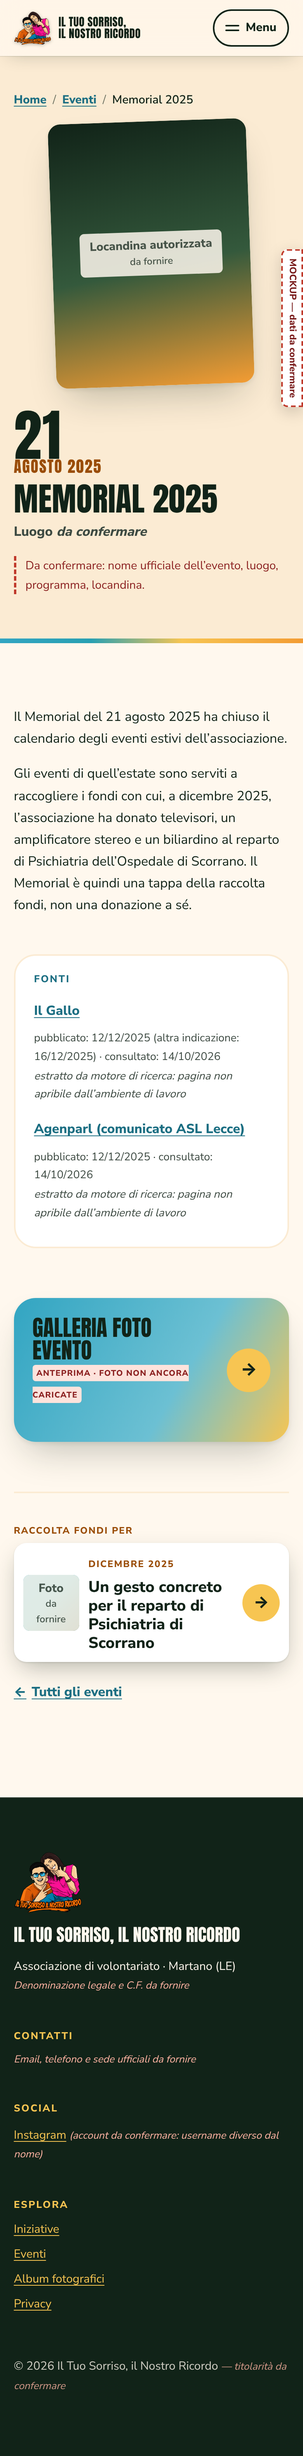
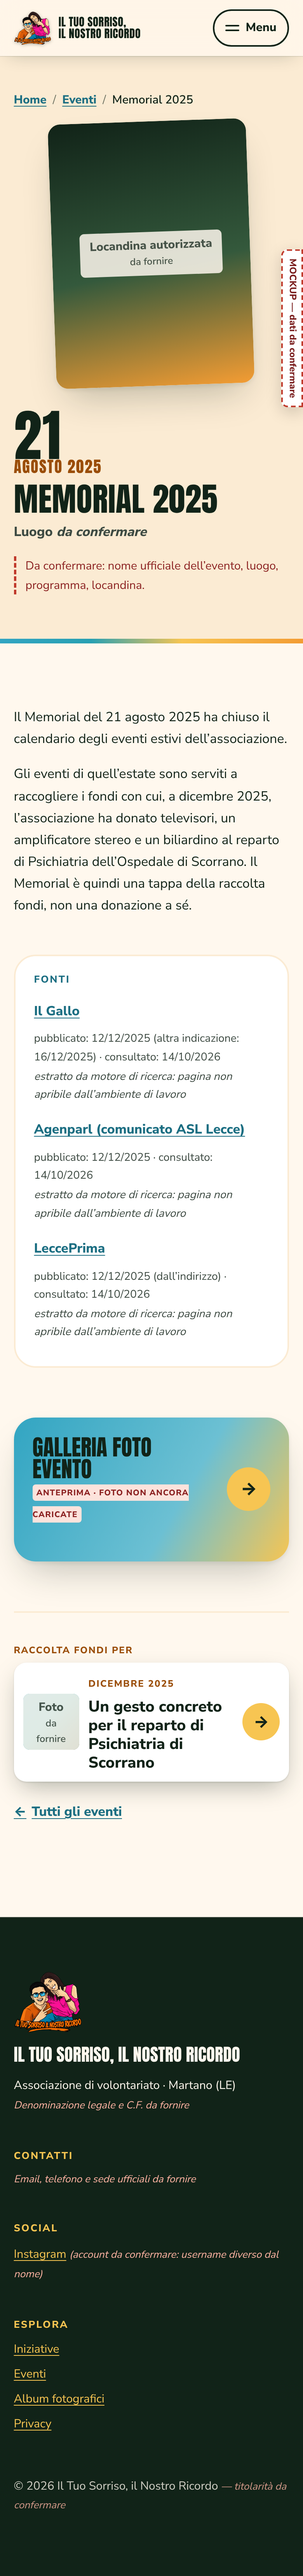
Correzione contenuti: catalogo foto solo reale, inventario e verifiche
- foto.html pubblico mostra solo l'album dell'evento reale; album fittizi
  solo in revisione (foto.html?demo=1)
- Archivio beneficenza: nota sull'unica iniziativa documentata
- LeccePrima aggiunta come fonte (estratto), nessun nuovo contenuto inventato
- docs/INVENTARIO_CONTENUTI.md: inventario, tabella integrati/non integrati,
  blocchi di accesso e materiali da richiedere
- Test E2E: catalogo, immagini, prestazioni essenziali (185/185)

Claude-Session: https://claude.ai/code/session_01UHhgy8jVRHrP4xmnhFFy4M

diff --git a/design/tests/e2e.js b/design/tests/e2e.js
@@ -66,7 +66,20 @@ async function suite(engine, b, vpName, opts) {
   ok(`[${vp}] home: nessun importo €`, !(await p.evaluate(() => /€|3\.000|euro/i.test(document.body.innerText))));
   ok(`[${vp}] home: 1 iniziativa, frecce e puntini nascosti`, await p.evaluate(() => document.querySelectorAll('#charity-track .ccard').length === 1 && getComputedStyle(document.querySelector('.carousel-ctrl')).display === 'none'));
   ok(`[${vp}] home: nessuna bozza`, !(await p.evaluate(() => /Torneo di calcio/.test(document.body.innerText))));
+  ok(`[${vp}] immagini: tutte caricate`, await p.evaluate(() => [...document.images].every(i => i.complete && i.naturalWidth > 0)));
   await shot('home-full', true);
+  if (engine === 'chromium' && vpName === 'desktop') {
+    const perf = await p.evaluate(() => {
+      const nav = performance.getEntriesByType('navigation')[0];
+      const res = performance.getEntriesByType('resource');
+      const local = res.filter(r => r.name.startsWith(location.origin));
+      return { dcl: Math.round(nav.domContentLoadedEventEnd), bytes: local.reduce((t, r) => t + (r.transferSize || r.encodedBodySize || 0), 0), requests: local.length,
+        cls: performance.getEntriesByType('layout-shift')?.reduce?.((t, e) => t + (e.hadRecentInput ? 0 : e.value), 0) ?? 0 };
+    });
+    ok(`[${vp}] prestazioni: DOMContentLoaded < 1500 ms in locale`, perf.dcl < 1500, JSON.stringify(perf));
+    ok(`[${vp}] prestazioni: risorse locali della Home < 1,5 MB`, perf.bytes < 1.5e6, JSON.stringify(perf));
+    results.push(`INFO  prestazioni Home (desktop, server locale): ${JSON.stringify(perf)}`);
+  }
 
   // 2. Home → beneficenza → articolo → archivio → Home
   await p.click('#charity-track .btn'); await p.waitForLoadState();
@@ -78,6 +91,7 @@ async function suite(engine, b, vpName, opts) {
   await shot('beneficenza-articolo', true); await noOverflow('articolo');
   await p.click('.crumbs a[href="beneficenza.html"]'); await p.waitForLoadState();
   ok(`[${vp}] archivio beneficenza`, p.url().endsWith('beneficenza.html') && (await p.$$('.ccard')).length === 1);
+  ok(`[${vp}] archivio: spiegata l'unica iniziativa documentata`, /una sola iniziativa/.test(await p.textContent('main')));
   await shot('beneficenza', true); await noOverflow('archivio beneficenza');
   await p.goBack(); ok(`[${vp}] tasto indietro`, /beneficenza-articolo/.test(p.url()));
   await p.goto(B + 'beneficenza.html');
@@ -110,8 +124,11 @@ async function suite(engine, b, vpName, opts) {
 
   // 4. Home → foto → catalogo → album → lightbox → selezione
   await p.goto(B + 'index.html'); await p.click('.stack'); await p.waitForLoadState();
-  ok(`[${vp}] home → catalogo foto`, p.url().endsWith('foto.html') && (await p.$$('.acard')).length === 3);
+  ok(`[${vp}] home → catalogo foto: solo l'album dell'evento reale`, p.url().endsWith('foto.html') && (await p.$$('#albums .acard')).length === 1 && /Memorial 2025/.test(await p.textContent('#albums')));
+  ok(`[${vp}] catalogo: nessun album fittizio nel pubblico`, !(await p.evaluate(() => /fittizio/i.test(document.querySelector('#albums').innerText))));
   await shot('foto-catalogo', true); await noOverflow('catalogo');
+  await p.click('.review-link a'); await p.waitForLoadState();
+  ok(`[${vp}] catalogo in revisione: album fittizi separati ed etichettati`, /foto\.html\?demo=1/.test(p.url()) && (await p.$$('.group--draft .acard')).length === 2);
   await p.click('.acard a[href="album.html?slug=demo-album-grande"]'); await p.waitForLoadState();
   ok(`[${vp}] album dimostrativo: etichettato e 48 foto caricate`, /fittizio/i.test(await p.textContent('.page-head')) && (await p.$$('.tile')).length === 48);
   await p.click('#load-more'); ok(`[${vp}] album: "Carica altre"`, (await p.$$('.tile')).length === 96);
@@ -163,7 +180,7 @@ async function suite(engine, b, vpName, opts) {
   ok('[reduced-motion] nessuna intro, nessun blocco', await p.evaluate(() => document.querySelector('.hero').classList.contains('is-done') && !document.documentElement.classList.contains('intro-lock')));
 
   // Link morti su tutte le pagine
-  const pages = ['index.html', 'index.html?demo=carosello', 'beneficenza.html', 'beneficenza-articolo.html?slug=donazione-spdc-scorrano-2025', 'eventi.html', 'eventi.html?bozze=1', 'evento.html?slug=memorial-2025', 'evento.html?slug=torneo-calcio-6-simone-2024', 'foto.html', 'album.html?slug=memorial-2025', 'album.html?slug=demo-album-grande', 'privacy.html'];
+  const pages = ['index.html', 'index.html?demo=carosello', 'beneficenza.html', 'beneficenza-articolo.html?slug=donazione-spdc-scorrano-2025', 'eventi.html', 'eventi.html?bozze=1', 'evento.html?slug=memorial-2025', 'evento.html?slug=torneo-calcio-6-simone-2024', 'foto.html', 'album.html?slug=memorial-2025', 'album.html?slug=demo-album-grande', 'foto.html?demo=1', 'privacy.html'];
   const dead = [];
   for (const pg of pages) {
     await p.goto(B + pg);

diff --git a/design/mockup/data.js b/design/mockup/data.js
@@ -4,7 +4,7 @@
    Ogni fonte ha data di consultazione e stato di verifica.
    Inventario completo: docs/RICERCA_FONTI_EVENTI_BENEFICENZA.md */
 (() => {
-  const CHECKED = '14/10/2026';
+  const CHECKED = '14/10/2026'; // ultima verifica: stessa data, secondo passaggio di ricerca
   // Stato di verifica delle fonti (vedi legenda nel documento di ricerca)
   const EXCERPT = 'estratto da motore di ricerca: pagina non apribile dall’ambiente di lavoro';
   const BLOCKED = 'non accessibile dall’ambiente di lavoro';
@@ -15,7 +15,7 @@
     cs2: { name: 'Corriere Salentino', date: '14/12/2025', url: 'https://www.corrieresalentino.it/2025/12/allospedale-veris-delli-ponti-di-scorrano-la-cerimonia-di-donazione-dellassociazione-il-tuo-sorriso-il-nostro-ricordo/', checked: CHECKED, status: EXCERPT },
     agenparl: { name: 'Agenparl (comunicato ASL Lecce)', date: '12/12/2025', url: 'https://agenparl.eu/2025/12/12/asl-lecce-donazione-al-reparto-di-psichiatria-dellospedale-di-scorrano-da-parte-dellassociazione-il-tuo-sorriso-il-nostro-ricordo/', checked: CHECKED, status: EXCERPT },
     gdp: { name: 'Giornale di Puglia', date: 'dicembre 2025', url: 'https://www.giornaledipuglia.com/2025/12/allospedale-veris-delli-ponti-di.html', checked: CHECKED, status: EXCERPT },
-    lecceprima: { name: 'LeccePrima', date: '12/12/2025 (dall’indirizzo)', url: 'https://www.lecceprima.it/salute/donazione-reparto-scorrano-12-dicembre-2025.html', checked: CHECKED, status: BLOCKED },
+    lecceprima: { name: 'LeccePrima', date: '12/12/2025 (dall’indirizzo)', url: 'https://www.lecceprima.it/salute/donazione-reparto-scorrano-12-dicembre-2025.html', checked: CHECKED, status: EXCERPT },
     grecia: { name: 'Grecìa ta nea-ma', date: '11/06/2024', url: 'https://greciataneama.it/news/notizie/sport/il-tuo-sorriso-il-nostro-ricordo-a-martano-to/40', checked: CHECKED, status: BLOCKED + ' (dati dalla ricerca preliminare del committente)' }
   };
 
@@ -65,7 +65,7 @@
         initiative: 'donazione-spdc-scorrano-2025',
         initiativeRelation: 'Raccolta fondi per',
         album: 'memorial-2025',
-        sources: [SRC.gallo, SRC.agenparl],
+        sources: [SRC.gallo, SRC.agenparl, SRC.lecceprima],
         provisional: ['nome ufficiale dell’evento', 'luogo', 'programma', 'locandina']
       },
       {
@@ -88,13 +88,15 @@
       }
     ],
 
-    /* Album: nessuna foto reale. In Fase B arriveranno da Google Drive. */
+    /* Album: nessuna foto reale. In Fase B arriveranno da Google Drive.
+       reviewOnly = album fittizi per provare le funzioni della galleria: fuori dal catalogo pubblico,
+       visibili solo in revisione (foto.html?demo=1). */
     albums: [
       { slug: 'memorial-2025', name: 'Memorial 2025', dateLabel: '21 agosto 2025', event: 'memorial-2025', published: true, preview: true, demoCount: 0,
         note: 'Anteprima: le foto dell’evento non sono ancora state caricate.' },
-      { slug: 'demo-album-grande', name: 'Album dimostrativo: tante foto', dateLabel: null, event: null, published: true, demoCount: 240, fictional: true,
+      { slug: 'demo-album-grande', reviewOnly: true, name: 'Album dimostrativo: tante foto', dateLabel: null, event: null, published: true, demoCount: 240, fictional: true,
         note: 'Album FITTIZIO con foto segnaposto, per provare griglia, selezione, visualizzatore e caricamento a blocchi.' },
-      { slug: 'demo-album-vuoto', name: 'Album dimostrativo: in preparazione', dateLabel: null, event: null, published: true, demoCount: 0, fictional: true,
+      { slug: 'demo-album-vuoto', reviewOnly: true, name: 'Album dimostrativo: in preparazione', dateLabel: null, event: null, published: true, demoCount: 0, fictional: true,
         note: 'Album FITTIZIO per mostrare lo stato “nessuna foto ancora”.' },
       { slug: 'demo-non-pubblicato', name: 'Album non pubblicato', dateLabel: null, event: null, published: false, demoCount: 12, fictional: true,
         note: 'Non compare nel catalogo: aprendo il link diretto si vede lo stato “album non disponibile”.' }

diff --git a/design/mockup/pages.js b/design/mockup/pages.js
@@ -19,6 +19,7 @@
     list.innerHTML = items.length
       ? items.map(i => `<li>${S.initiativeCard(i)}</li>`).join('')
       : `<li>${empty('Nessuna iniziativa pubblicata', 'Le iniziative compariranno qui dopo l’approvazione dei testi.')}</li>`;
+    if (items.length === 1) list.insertAdjacentHTML('afterend', `<div class="note-prov" style="margin-top:var(--s-6)"><strong>Nota redazionale (non pubblicabile):</strong> a oggi è documentata una sola iniziativa di beneficenza dell’associazione. Non c’è base sufficiente per altre schede: verranno aggiunte solo con fonti o materiali forniti dall’associazione.</div>`);
   }
 
   /* ---------- /beneficenza/:slug ---------- */
@@ -124,9 +125,16 @@
 
   /* ---------- /foto ---------- */
   if (page === 'foto') {
-    const albums = D.albums.filter(a => a.published).sort((a, b) => (b.event ? 1 : 0) - (a.event ? 1 : 0));
+    // Catalogo pubblico: solo album legati a eventi reali. Gli album fittizi solo in revisione (?demo=1).
+    const review = param('demo') === '1';
+    const albums = D.albums.filter(a => a.published && !a.reviewOnly);
+    const demos = D.albums.filter(a => a.published && a.reviewOnly);
     $('#albums').innerHTML = albums.length ? albums.map(S.albumCard).join('')
       : `<li>${empty('Nessun album pubblicato', 'Gli album arriveranno dopo il prossimo evento.')}</li>`;
+    $('#albums').insertAdjacentHTML('afterend', review
+      ? `<section class="group group--draft" aria-labelledby="g-demo"><h2 class="group-title" id="g-demo">Album fittizi <small>solo revisione: servono a provare le funzioni della galleria</small></h2>
+          <ul class="album-grid">${demos.map(S.albumCard).join('')}</ul></section>`
+      : `<p class="review-link"><a href="foto.html?demo=1">Revisione: mostra gli album fittizi di prova</a></p>`);
   }
 
   /* ---------- /foto/:slug ---------- */
@@ -161,7 +169,7 @@
     <div class="wrap"><ul class="grid" id="grid" aria-label="Foto dell’album"></ul>
       <div class="more" id="more"></div></div>`
     : `<div class="page-body"><div class="wrap">${a.preview
-        ? empty('Foto non ancora caricate', 'Le foto di questo evento arriveranno appena l’associazione le avrà raccolte e autorizzate. Per provare griglia, selezione e download simulati apri l’<a href="album.html?slug=demo-album-grande">album dimostrativo</a>.')
+        ? empty('Foto non ancora caricate', 'Le foto di questo evento arriveranno appena l’associazione le avrà raccolte e autorizzate. Per provare griglia, selezione e download simulati c’è un <a href="album.html?slug=demo-album-grande">album fittizio di prova</a> (solo revisione).')
         : empty('Nessuna foto ancora', 'L’album è stato creato ma le foto non sono ancora state caricate. Torna a trovarci dopo l’evento.')}
         <p><a class="back-link" href="foto.html"><span aria-hidden="true">←</span> Tutti gli album</a></p></div></div>`}`;
     if (!N) return;

diff --git a/docs/INVENTARIO_CONTENUTI.md b/docs/INVENTARIO_CONTENUTI.md
@@ -1,0 +1,66 @@
+# Inventario contenuti — eventi, raccolte fondi, beneficenza
+
+> Verifica eseguita il **14/10/2026** (secondo passaggio, branch `fix/integrazione-contenuti-mockup`).
+> Sostituisce come riferimento `RICERCA_FONTI_EVENTI_BENEFICENZA.md`, che resta come storico.
+
+## 0. Blocco di accesso: cosa non è stato possibile fare
+
+Le fonti primarie e quasi tutte le testate **non sono raggiungibili** dall'ambiente di lavoro. Il proxy di rete rifiuta la connessione (verificato con `curl`, codice 000 / 403) e lo strumento di lettura web non risolve i domini. Anche il connettore **Google Drive** risponde *Forbidden*.
+
+| Fonte | Link | Esito |
+|---|---|---|
+| Instagram ufficiale | https://www.instagram.com/ilvostrosorrisoilnostroricordo/ | **non_accessibile**: nessun post aperto |
+| Facebook | https://www.facebook.com/groups/546155726566062/user/61589920602992/ | **non_accessibile**: nessun post aperto |
+| Corriere Salentino (donazione) | https://www.corrieresalentino.it/2025/12/donazione-al-reparto-di-psichiatria-dellospedale-di-scorrano-da-parte-dellassociazione-il-tuo-sorriso-il-nostro-ricordo/ | Pagina bloccata; letto solo l'estratto del motore di ricerca |
+| Corriere Salentino (cerimonia) | https://www.corrieresalentino.it/2025/12/allospedale-veris-delli-ponti-di-scorrano-la-cerimonia-di-donazione-dellassociazione-il-tuo-sorriso-il-nostro-ricordo/ | Pagina bloccata; solo estratto |
+| Il Gallo | https://www.ilgallo.it/attualita/ospedale-di-scorrano-il-tuo-sorriso-il-nostro-ricordo/ | Pagina bloccata; solo estratto |
+| LeccePrima | https://www.lecceprima.it/salute/donazione-reparto-scorrano-12-dicembre-2025.html | Pagina bloccata; **estratto trovato in questo passaggio** |
+| LecceNews24 | https://www.leccenews24.it/attualita/donazioni-reparto-psichiatria-ospedale-scorrano.htm | **non_accessibile**: pagina bloccata e nessun estratto restituito dalla ricerca |
+| Giornale di Puglia | https://www.giornaledipuglia.com/2025/12/allospedale-veris-delli-ponti-di.html | Pagina bloccata; solo titolo |
+| Agenparl (comunicato ASL Lecce) | https://agenparl.eu/2025/12/12/asl-lecce-donazione-al-reparto-di-psichiatria-dellospedale-di-scorrano-da-parte-dellassociazione-il-tuo-sorriso-il-nostro-ricordo/ | Pagina bloccata; solo estratto |
+| Grecìa ta nea-ma | https://greciataneama.it/news/notizie/sport/il-tuo-sorriso-il-nostro-ricordo-a-martano-to/40 | **non_accessibile**: nessun estratto; dati solo dalla ricerca preliminare del committente |
+
+**Non è stato dichiarato di aver consultato nessun post o articolo che non si è potuto aprire.** Non è stata aggirata nessuna protezione.
+
+Ricerche aggiuntive di questo passaggio: LecceNews24 e donazione; username Instagram “ilvostrosorriso…”; memorial di Simone e Francesca a Martano nel 2023 e 2024; serate di raccolta fondi a Martano. Risultati **scartati perché di altre associazioni**: “Armonie per la Vita” (Figli in Paradiso, per la TIN di Lecce), “Io non mollo day” (Amici di Paolo), Fratres Martano, donazioni a Pediatria e Ostetricia di Scorrano (Cuore e mani aperte, ALR Lorenzo Risolo).
+
+## 1. Inventario
+
+Legenda: **verificato** = più fonti concordi (anche solo tramite estratti) · **da_confermare** = una sola fonte, dato non letto direttamente o ruolo dell'associazione non chiaro · **non_accessibile** = fonte nota ma illeggibile.
+
+| ID | Titolo | Categoria | Data | Luogo | Descrizione (riscritta) | Link diretto | Cosa conferma la fonte | Attendibilità | Immagine candidata e diritti | Dubbi |
+|---|---|---|---|---|---|---|---|---|---|---|
+| A0 | Identità dell'associazione | Identità | — | Martano (LE) | Associazione di volontariato nata da un gruppo di amici per ricordare Simone e Francesca, due giovani scomparsi, trasformando il ricordo in solidarietà | LeccePrima; Corriere Salentino (link sopra) | Nome, sede a Martano, legame con Simone e Francesca | **verificato** (2 estratti concordi) | Logo/illustrazione forniti dal committente | Denominazione legale; username Instagram “vostro” ≠ “Tuo”; nessun dettaglio biografico senza consenso delle famiglie |
+| B1 | Un gesto concreto per il reparto di Psichiatria di Scorrano | **Beneficenza** | Dicembre 2025 (cerimonia riportata il 12/12/2025) | SPDC, Ospedale Veris Delli Ponti, Scorrano (LE) | Donazione di televisori con supporti, un amplificatore stereo e un biliardino, per lo svago e la socialità delle persone ricoverate | Corriere Salentino (donazione) | Beni donati, destinatario, finalità, collegamento con gli eventi estivi | **verificato** (5 testate concordi negli estratti) | Foto della consegna: **nessuna autorizzata**; foto di testate non riutilizzabili; attenzione ai pazienti | 9 televisori secondo la stampa, 8 secondo le note di progetto → “televisori”. Valore economico **mai mostrato**. Data di Il Gallo: 12/12 o 16/12/2025 |
+| B1-c | Cerimonia di consegna | Parte di B1 | Dicembre 2025 | come B1 | Consegna in reparto con personale sanitario e istituzioni locali | Corriere Salentino (cerimonia); Giornale di Puglia; Agenparl | Che la consegna è avvenuta con una cerimonia | verificato | come B1 | **Non è una seconda beneficenza**: più articoli raccontano lo stesso fatto |
+| E1 | Memorial 2025 | **Evento di raccolta fondi** | 21/08/2025 | **non riportato** | Ultimo appuntamento degli eventi estivi, i cui fondi hanno sostenuto B1 | Il Gallo; Agenparl; LeccePrima | Data e ruolo di chiusura della raccolta per B1 | **verificato** (data e legame); **da_confermare** (nome ufficiale, luogo, programma) | Locandina: **nessuna disponibile** | Anno 2025 ricavato dal contesto degli articoli; non è una donazione a sé |
+| E0 | Eventi estivi 2025 | Raccolta fondi (insieme di eventi) | Estate 2025 | — | Serie di eventi che hanno raccolto i fondi per B1 | come E1 | Che ci sono stati eventi estivi di raccolta | verificato in modo generico | — | **Nessun dettaglio** su quali eventi, date e luoghi: non sono state create schede |
+| E2 | Torneo di calcio a 6 — In ricordo di Simone | Evento sportivo | dal 17/06/2024 | Impianto “Peppino Impastato”, via Stomeo, Martano | Torneo dedicato a Simone, nell'ambito della Giornata dello Sport | Grecìa ta nea-ma | Solo secondo la ricerca preliminare: data, luogo, dedica | **da_confermare** (fonte non_accessibile) | Locandina 2024: nessuna | **Ruolo dell'associazione non confermato**; numeri di telefono delle iscrizioni da non ripubblicare |
+
+## 2. Trovati → integrati → non integrati
+
+| Contenuto trovato | Integrato nel mockup | Dove | Non integrato / perché |
+|---|---|---|---|
+| A0 Identità | Sì | Home “Chi siamo”, footer | Biografie, cognomi, date: **no**, servono il consenso delle famiglie e un testo approvato |
+| B1 Donazione SPDC Scorrano | Sì, **unica card di beneficenza** | Carosello in Home (1 card, senza frecce né puntini), `beneficenza.html`, `beneficenza-articolo.html?slug=donazione-spdc-scorrano-2025` | Valore economico **escluso**. Numero dei televisori omesso. Foto: segnaposto (nessuna autorizzata) |
+| B1-c Cerimonia | Sì, come **tappa** dell'articolo B1 | Sezione “Le tappe” | Non è una card separata, per evitare il doppio conteggio |
+| E1 Memorial 2025 | Sì, unico evento pubblico | Home Eventi, `eventi.html`, `evento.html?slug=memorial-2025` | Luogo, programma e locandina: **non integrati** (nessuna fonte) |
+| Album del Memorial | Sì, come **anteprima senza foto** | `foto.html` (unico album pubblico), `album.html?slug=memorial-2025` | Nessuna foto e nessun conteggio: le foto non esistono ancora nel progetto |
+| E0 Eventi estivi 2025 | Solo citati nei testi di B1 ed E1 | — | Nessuna scheda: mancano nomi, date e luoghi dei singoli eventi |
+| E2 Torneo 2024 | **No** (bozza) | Solo in revisione: `eventi.html?bozze=1` | Ruolo dell'associazione non confermato; fonte illeggibile |
+| Altre beneficenze | — | — | **Nessuna trovata**: non c'è base sufficiente per altre card reali |
+| Eventi di altre associazioni a Martano/Scorrano | No | — | Omonimie o enti diversi |
+
+**Immagini verificate: nessuna.** Non è stata recuperata nessuna locandina o foto originale con permesso di riuso. Ovunque ci sono segnaposto dichiarati; l'elenco da chiedere è in `ASSET_DA_RICHIEDERE.md`.
+
+## 3. Cosa serve dal committente per completare davvero
+
+La ricerca sui social non si può fare da questo ambiente. Per completarla servono **una** di queste strade:
+
+1. **Sbloccare la rete:** nelle impostazioni dell'ambiente cloud, *Network access* → aggiungere i domini `instagram.com`, `facebook.com`, `corrieresalentino.it`, `ilgallo.it`, `lecceprima.it`, `leccenews24.it`, `giornaledipuglia.com`, `agenparl.eu`, `greciataneama.it` ([documentazione](https://code.claude.com/docs/en/cloud-environments#network-access)). Instagram e Facebook però spesso richiedono il login, quindi la strada 2 resta la più affidabile.
+2. **Fornire i materiali** (cartella nel repo, ad es. `design/assets/contenuti/`, oppure accesso a Drive):
+   - export dei post Instagram/Facebook dell'associazione (Instagram: *Impostazioni → Il tuo account → Scarica le tue informazioni*, formato JSON con media), oppure screenshot di ogni post con data visibile;
+   - per ogni evento: **locandina originale**, data, luogo, programma e una riga su chi l'ha organizzato;
+   - per ogni iniziativa benefica: destinatario, data, cosa è stato donato, eventuali foto autorizzate (senza pazienti o minori riconoscibili);
+   - conferma scritta sul **torneo di calcio 2024**;
+   - autorizzazione al riuso di ogni immagine (associazione e autori delle foto).

diff --git a/docs/REPORT_CONTENUTI_MOCKUP.md b/docs/REPORT_CONTENUTI_MOCKUP.md
@@ -76,3 +76,36 @@ instagram.com/ilvostrosorrisoilnostroricordo · facebook.com/groups/546155726566
 4. Memorial 2025: luogo, programma e locandina mancanti.
 5. Discrepanza sul numero dei televisori (9 o 8) e sulla data di pubblicazione di Il Gallo (12/12 o 16/12/2025).
 6. Le note redazionali (es. la discrepanza sui televisori) sono visibili nel mockup con l'etichetta “non pubblicabili”: in produzione staranno solo nel sistema redazionale.
+
+---
+
+# Correzione — branch `fix/integrazione-contenuti-mockup` (14/10/2026)
+
+Creato da `origin/feature/contenuti-reali-mockup` @ `51ac692`; il branch precedente non è stato modificato. Nessun merge, nessun deploy.
+
+## Esito della nuova ricerca
+- **Accesso:** social, testate e Google Drive restano bloccati (proxy di rete / *Forbidden*). Dettagli e link precisi in `INVENTARIO_CONTENUTI.md` §0.
+- **Nuovo:** un estratto di LeccePrima conferma l'identità dell'associazione (nata in ricordo di Francesca e Simone) e la donazione. È stato aggiunto come fonte del Memorial.
+- **Nessuna nuova iniziativa o evento** dell'associazione trovato. Gli eventi solidali trovati a Martano e Scorrano appartengono ad altre associazioni e sono stati scartati.
+- Conclusione: **non c'è base sufficiente per più di una card di beneficenza reale**. L'archivio lo dice esplicitamente con una nota redazionale.
+
+## Correzioni al mockup
+| File | Modifica |
+|---|---|
+| `design/mockup/data.js` | LeccePrima passa da “non accessibile” a “estratto” ed è aggiunta tra le fonti del Memorial; album fittizi marcati `reviewOnly` |
+| `design/mockup/pages.js` | `foto.html` pubblico mostra **solo l'album dell'evento reale** (Memorial, in anteprima); gli album fittizi sono visibili solo in revisione (`foto.html?demo=1`), separati ed etichettati. `beneficenza.html` spiega perché c'è una sola card. Il link dall'album in anteprima all'album di prova è etichettato “solo revisione” |
+| `design/tests/e2e.js` | Nuovi controlli: catalogo pubblico senza album fittizi, revisione separata, nota sull'unica iniziativa, tutte le immagini caricate, prestazioni essenziali della Home |
+| `docs/INVENTARIO_CONTENUTI.md` | **Nuovo**: inventario con le colonne richieste e tabella trovati → integrati → non integrati |
+| `README.md`, questo report | Aggiornati |
+
+Grafica, intro, navbar e responsive: **invariati**.
+
+## Test realmente eseguiti
+`node design/tests/e2e.js` su server statico locale: **185/185 PASS** (Chromium; desktop 1440×900, tablet 768×1024, mobile 390×844). WebKit non installato → `SKIP` dichiarato.
+Prestazioni Home (desktop, server locale): DOMContentLoaded 82 ms, 8 richieste locali, ~0,93 MB di risorse locali (quasi tutte le due immagini dell'illustrazione). Il CLS non è stato misurato in modo affidabile in questo test.
+
+## Questioni da approvare
+1. Fornire export, screenshot e locandine dei social, oppure sbloccare i domini (vedi `INVENTARIO_CONTENUTI.md` §3).
+2. Conferma del ruolo dell'associazione nel torneo 2024.
+3. Luogo, programma e locandina del Memorial 2025.
+4. Numero dei televisori (9 o 8) e autorizzazione delle foto della consegna.

diff --git a/README.md b/README.md
@@ -2,7 +2,7 @@
 
 Sito dell'associazione di volontariato di Martano (LE).
 
-**Stato: Fase A.3 — prototipo con contenuti reali documentati** (branch `feature/contenuti-reali-mockup`). Questo repository contiene specifiche e mockup da approvare. Il codice applicativo (React + Node.js) verrà scritto solo dopo l'approvazione dei mockup.
+**Stato: Fase A.3 (correzione) — contenuti reali documentati** (branch `fix/integrazione-contenuti-mockup`). Questo repository contiene specifiche e mockup da approvare. Il codice applicativo (React + Node.js) verrà scritto solo dopo l'approvazione dei mockup.
 
 ## Documenti
 
@@ -15,6 +15,7 @@ Sito dell'associazione di volontariato di Martano (LE).
 | [docs/ARCHITETTURA_PROPOSTA.md](docs/ARCHITETTURA_PROPOSTA.md) | Bozza tecnica: contenuti, Google Drive, API |
 | [docs/SKILL_E_TOOL.md](docs/SKILL_E_TOOL.md) | Esame delle skill e dei tool proposti |
 | [docs/REVISIONE_MOCKUP.md](docs/REVISIONE_MOCKUP.md) | Revisione UX, accessibilità e prestazioni; prima/dopo della Fase A.2 |
+| [docs/INVENTARIO_CONTENUTI.md](docs/INVENTARIO_CONTENUTI.md) | **Inventario contenuti di riferimento**: fonti, cosa è integrato e cosa no, cosa serve dal committente |
 | [docs/RICERCA_FONTI_EVENTI_BENEFICENZA.md](docs/RICERCA_FONTI_EVENTI_BENEFICENZA.md) | Inventario fonti di eventi e beneficenza, stato di verifica (Fase A.3) |
 | [docs/ASSET_DA_RICHIEDERE.md](docs/ASSET_DA_RICHIEDERE.md) | Foto, locandine, conferme e autorizzazioni da chiedere all'associazione |
 | [docs/REPORT_CONTENUTI_MOCKUP.md](docs/REPORT_CONTENUTI_MOCKUP.md) | Report della Fase A.3: file, card, immagini, test, limiti |
@@ -40,7 +41,7 @@ npx serve -l 8765 design          # oppure: python3 -m http.server 8765 --direct
 | Privacy | http://localhost:8765/mockup/privacy.html |
 | Revisione: bozze eventi | http://localhost:8765/mockup/eventi.html?bozze=1 |
 | Revisione: carosello a più card (DEMO) | http://localhost:8765/mockup/index.html?demo=carosello#beneficenza |
-| Album dimostrativo (funzioni galleria) | http://localhost:8765/mockup/album.html?slug=demo-album-grande |
+| Revisione: album fittizi di prova | http://localhost:8765/mockup/foto.html?demo=1 |
 
 File principali in `design/mockup/`: `data.js` (catalogo contenuti), `site.js` (navbar, footer, schede comuni), `mockup.js` (Home), `pages.js` (pagine interne), `tokens.css`, `mockup.css`, `pages.css`.
 
